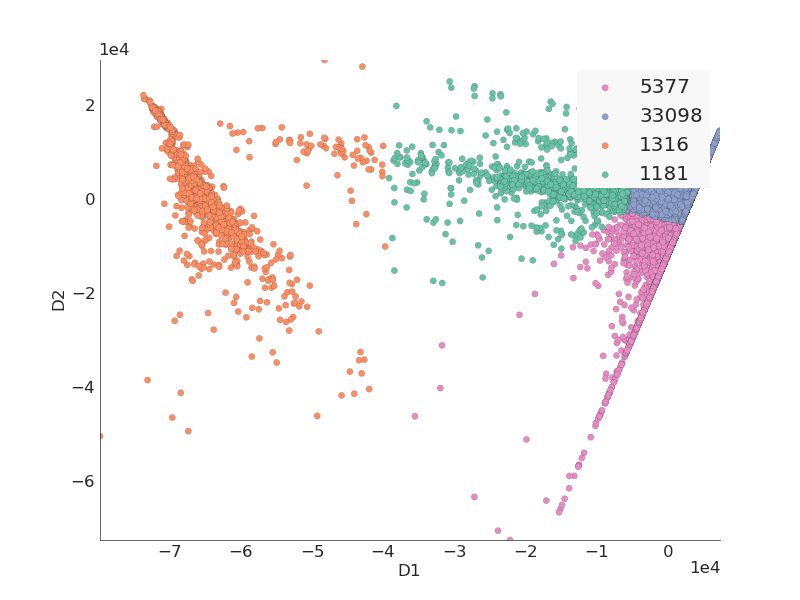
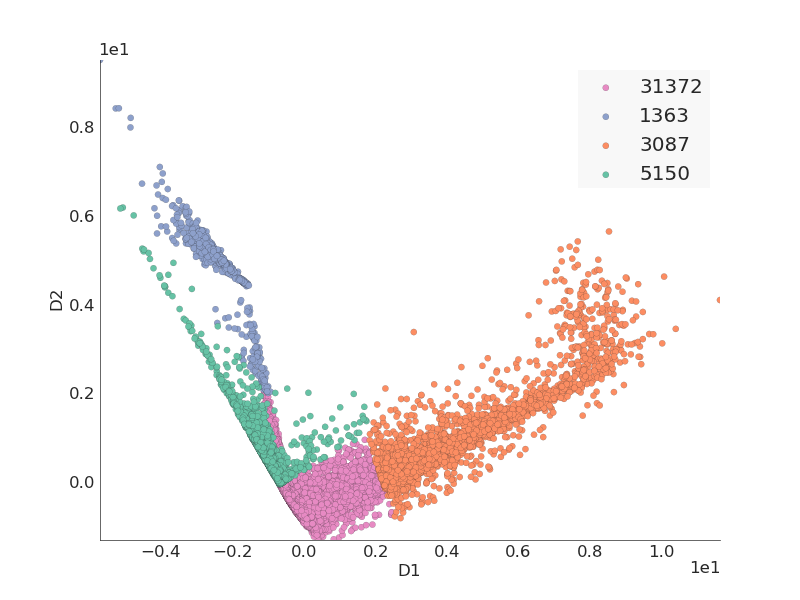
Updates graphs

diff --git a/python/thesis_plots.py b/python/thesis_plots.py
@@ -89,8 +89,8 @@ def plot_issue_29(load_clusters_from_file, dataset = 'd1'):
 	"""
 	datapath = dataset_paths[dataset]
 	fit, gen = IO.load_pickled_generation_dataframe(datapath + 'fits.pandas')
-
-	points = reduce_npoints_kmeans(dataset, fit, n_datapoints=1000, load_from_file=load_clusters_from_file)
+	trans_full_dataset, pca, components = calculate_pca(fit, n_components=3)
+	points = reduce_npoints_kmeans(dataset, trans_full_dataset, n_datapoints=1000, load_from_file=load_clusters_from_file)
 	trans, pca, components = calculate_pca(DataFrame(points), n_components=3)
 	
 	columns = ['d1', 'd2', 'd3']	
@@ -145,4 +145,4 @@ def remake_all_plots():
 	plot_issue_32(dataset='d1')
 
 if __name__ == '__main__':
-	remake_all_plots()
+	plot_issue_29(dataset='d1', load_clusters_from_file=False)
